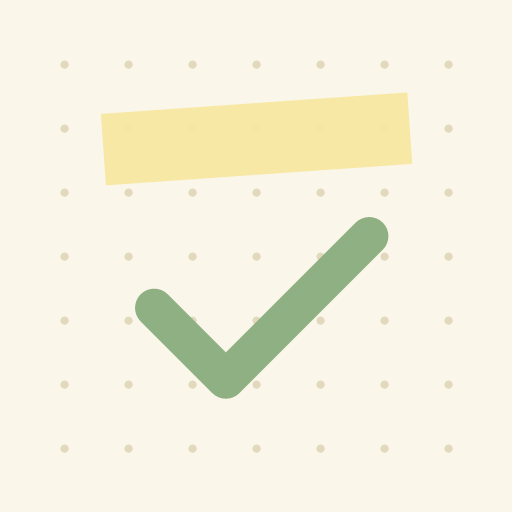
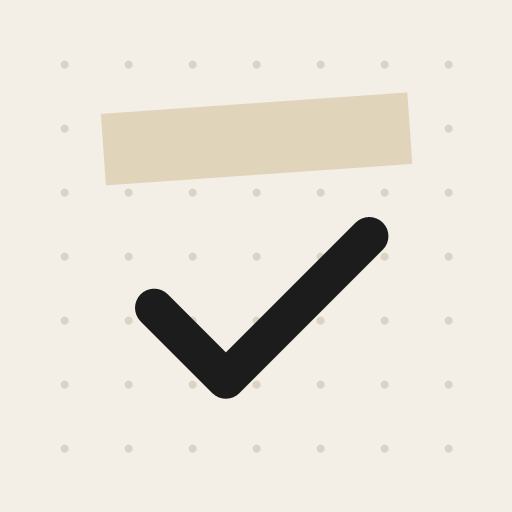
Estilo minimalista: paleta beige, blanco y negro

Changed region(s): [[0.25, 0.4062, 0.7812, 0.7812]]

diff --git a/src/styles.css b/src/styles.css
@@ -1,17 +1,17 @@
 :root {
-  --paper: #fbf6ea;
-  --ink: #3f3b35;
-  --soft: #8a8274;
-  --line: #e6dcc3;
-  --butter: #f6e7a1;
-  --sage: #cfe2bf;
-  --lav: #dcd3f0;
-  --mint: #d2ebe2;
-  --peach: #f8d9c8;
-  --sky: #d3e4f1;
-  --ok: #dcefd0;
-  --soon: #fbf0b8;
-  --near: #f6cdc6;
+  --paper: #f4efe6;
+  --ink: #1c1c1c;
+  --soft: #82796c;
+  --line: #ddd4c2;
+  --butter: #e6dcc6;
+  --sage: #ebe4d4;
+  --lav: #fffdf8;
+  --mint: #e6dcc6;
+  --peach: #d9cdb6;
+  --sky: #fffdf8;
+  --ok: #dfe9d3;
+  --soon: #f3ebc4;
+  --near: #efd3cc;
   --hand: 'Caveat', cursive;
   --sans: 'Quicksand', system-ui, sans-serif;
 }
@@ -27,7 +27,7 @@ body {
 
 body {
   background-color: var(--paper);
-  background-image: radial-gradient(#d8cdb0 1px, transparent 1px);
+  background-image: radial-gradient(#dcd4c2 1px, transparent 1px);
   background-size: 22px 22px;
   color: var(--ink);
   font-family: var(--sans);
@@ -126,11 +126,15 @@ a {
   background: rgba(255, 255, 255, 0.6);
   border: 1px dashed rgba(0, 0, 0, 0.1);
 }
+.emoji,
+.t-emoji,
+.chip { filter: grayscale(1); }
 .card .emoji { font-size: 2.2rem; margin-bottom: auto; }
 .card strong { font-family: var(--hand); font-size: 1.9rem; line-height: 1; }
 .card small { color: var(--soft); }
-.card.soon { opacity: 0.55; }
-.c-butter { background: var(--butter); }
+.card.soon { opacity: 0.5; background: transparent; border: 1.5px dashed var(--line); box-shadow: none; }
+.c-butter { background: var(--ink); color: #fff; }
+.c-butter small { color: #cfc8b8; }
 .c-lav { background: var(--lav); }
 .c-mint { background: var(--mint); }
 .c-sage { background: var(--sage); }
@@ -185,13 +189,14 @@ a {
   cursor: pointer;
 }
 .cell .num { font-weight: 700; }
-.cell.today { border-color: #c9b96a; background: var(--butter); }
+.cell.today { border-color: var(--ink); background: var(--ink); color: #fff; }
 .dots { display: flex; flex-wrap: wrap; justify-content: center; gap: 3px; }
 .dot { width: 8px; height: 8px; border-radius: 50%; display: block; }
-.d-ok { background: #9bcb86; }
-.d-soon { background: #e8c94f; }
-.d-near { background: #e58b80; }
-.d-done { background: #c9c3b4; }
+.d-ok { background: #a9c79a; }
+.d-soon { background: #dcc566; }
+.d-near { background: #d9998f; }
+.d-done { background: #bdb5a3; }
+.cell.today .d-done { background: #8d8676; }
 
 /* ---------- Día / pendientes ---------- */
 .sec {
@@ -240,7 +245,7 @@ a {
   background: rgba(255, 255, 255, 0.7);
   font-size: 1rem;
   font-weight: 700;
-  color: #5d8a50;
+  color: var(--ink);
   cursor: pointer;
 }
 .pbody { flex: 1; display: flex; flex-direction: column; min-width: 0; }
@@ -283,8 +288,8 @@ input[type='time'] {
 .row label { min-width: 0; }
 input:focus,
 textarea:focus {
-  outline: 2px solid var(--sage);
-  border-color: #b8d3a3;
+  outline: 2px solid var(--ink);
+  border-color: var(--ink);
 }
 .row { display: flex; gap: 10px; }
 .row label {
@@ -298,17 +303,16 @@ textarea:focus {
 .btn {
   border: 0;
   border-radius: 99px;
-  background: var(--sage);
-  color: var(--ink);
+  background: var(--ink);
+  color: #fff;
   font-family: var(--sans);
   font-size: 1rem;
   font-weight: 700;
   padding: 12px 22px;
   cursor: pointer;
-  box-shadow: 0 2px 0 rgba(0, 0, 0, 0.08);
 }
-.btn:active { transform: translateY(1px); box-shadow: none; }
-.btn.alt { background: var(--butter); }
+.btn:active { transform: translateY(1px); }
+.btn.alt { background: #fffdf8; color: var(--ink); border: 1.5px solid var(--ink); }
 .notice {
   margin-top: 14px;
   padding: 14px;
@@ -349,7 +353,7 @@ textarea:focus {
 .rmain .emoji { font-size: 1.7rem; }
 .rname { flex: 1; display: flex; flex-direction: column; font-weight: 700; }
 .rname small { font-weight: 500; color: var(--soft); }
-.play { color: #5d8a50; }
+.play { color: var(--ink); }
 
 .timer {
   display: flex;
@@ -361,12 +365,12 @@ textarea:focus {
 .ring-bg { fill: none; stroke: var(--line); stroke-width: 14; }
 .ring {
   fill: none;
-  stroke: #9bcb86;
+  stroke: var(--ink);
   stroke-width: 14;
   stroke-linecap: round;
   transition: stroke-dashoffset 0.3s linear;
 }
-.ring.over { stroke: #e9a89a; }
+.ring.over { stroke: #c9897f; }
 .t-emoji { font-size: 34px; }
 .t-clock { font-family: var(--hand); font-size: 46px; font-weight: 700; fill: var(--ink); }
 .tmsg { font-family: var(--hand); font-size: 1.7rem; margin: 4px 0 8px; text-align: center; }

diff --git a/vite.config.ts b/vite.config.ts
@@ -1,4 +1,4 @@
-import { defineConfig } from 'vite'
+import { defineConfig } from 'vite'
 import react from '@vitejs/plugin-react'
 import { VitePWA } from 'vite-plugin-pwa'
 
@@ -15,8 +15,8 @@ export default defineConfig({
         short_name: 'Bujo',
         description: 'Mi bullet journal digital para organizarme con TDAH',
         lang: 'es',
-        theme_color: '#fbf6ea',
-        background_color: '#fbf6ea',
+        theme_color: '#f4efe6',
+        background_color: '#f4efe6',
         display: 'standalone',
         icons: [
           { src: 'icon-192.png', sizes: '192x192', type: 'image/png' },

diff --git a/index.html b/index.html
@@ -1,9 +1,9 @@
-<!doctype html>
+<!doctype html>
 <html lang="es">
   <head>
     <meta charset="UTF-8" />
     <meta name="viewport" content="width=device-width, initial-scale=1, viewport-fit=cover" />
-    <meta name="theme-color" content="#fbf6ea" />
+    <meta name="theme-color" content="#f4efe6" />
     <meta name="apple-mobile-web-app-capable" content="yes" />
     <meta name="mobile-web-app-capable" content="yes" />
     <meta name="apple-mobile-web-app-title" content="Bujo" />
